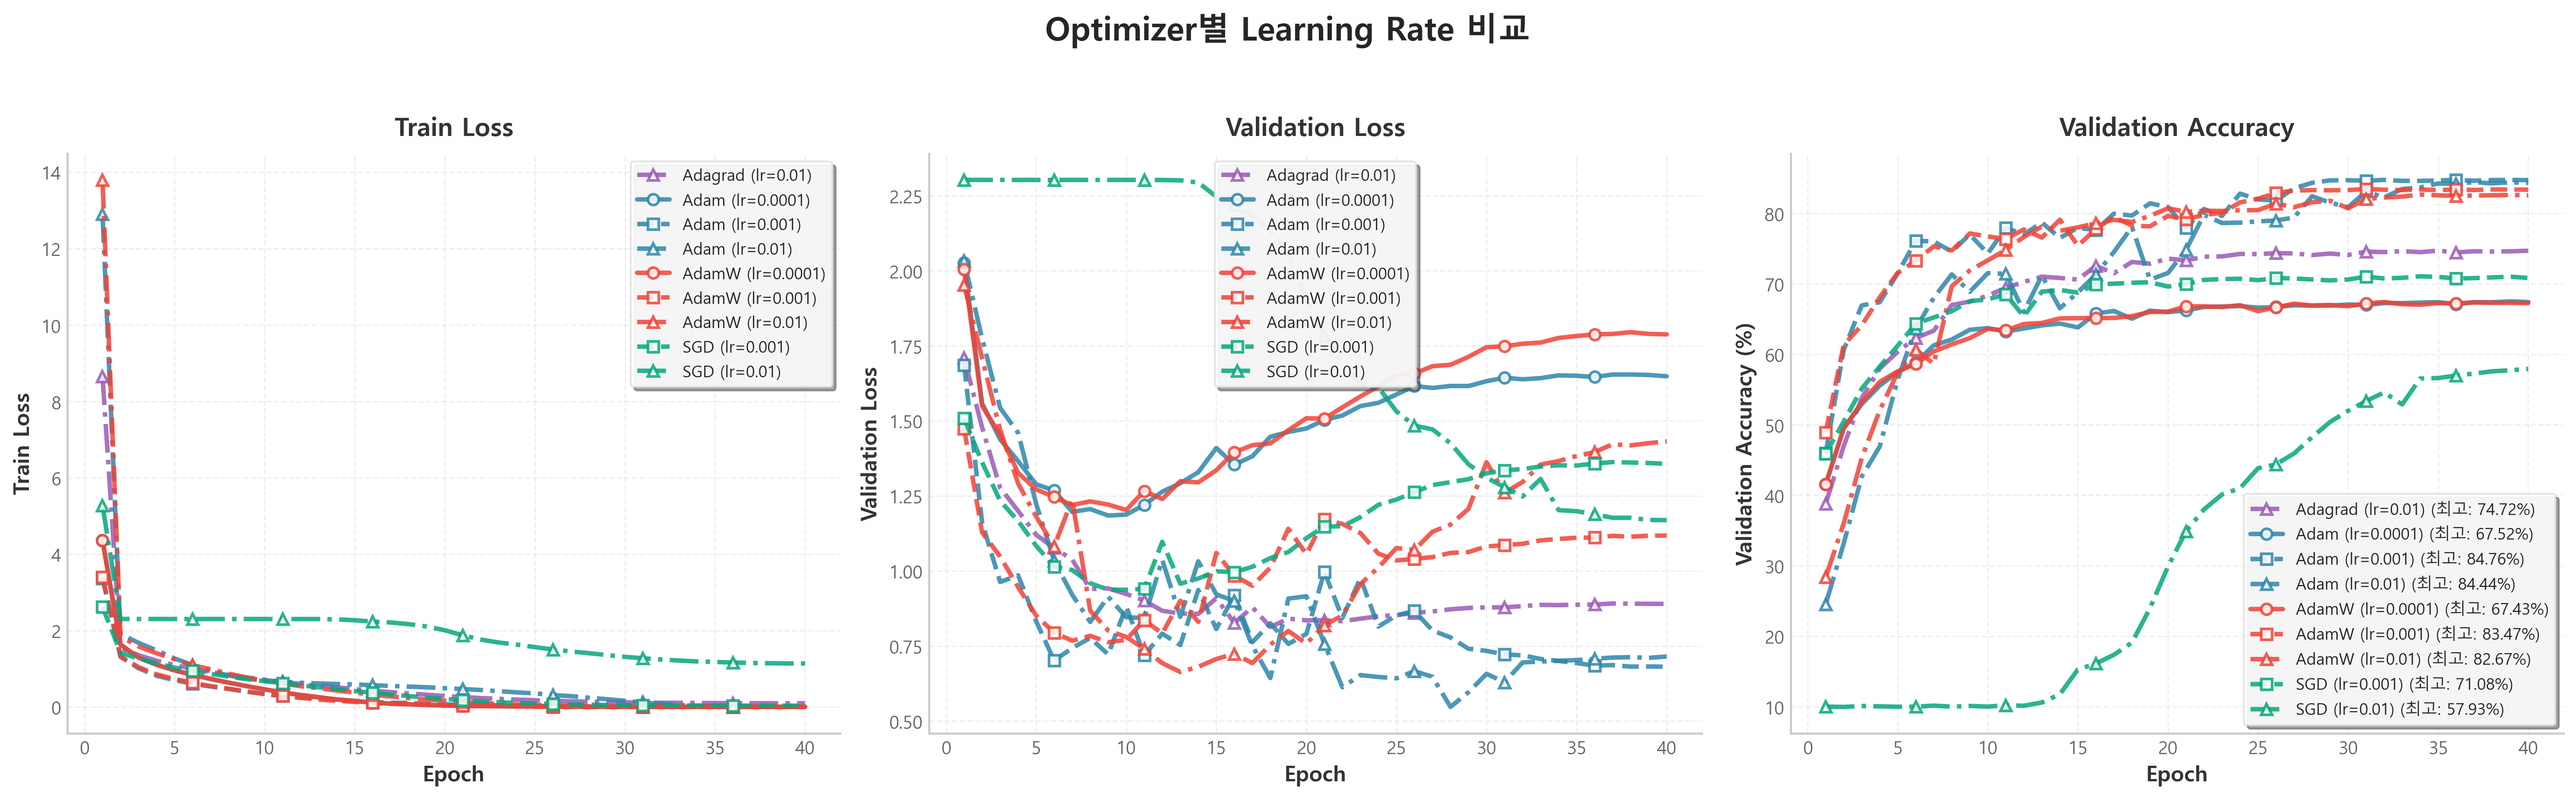
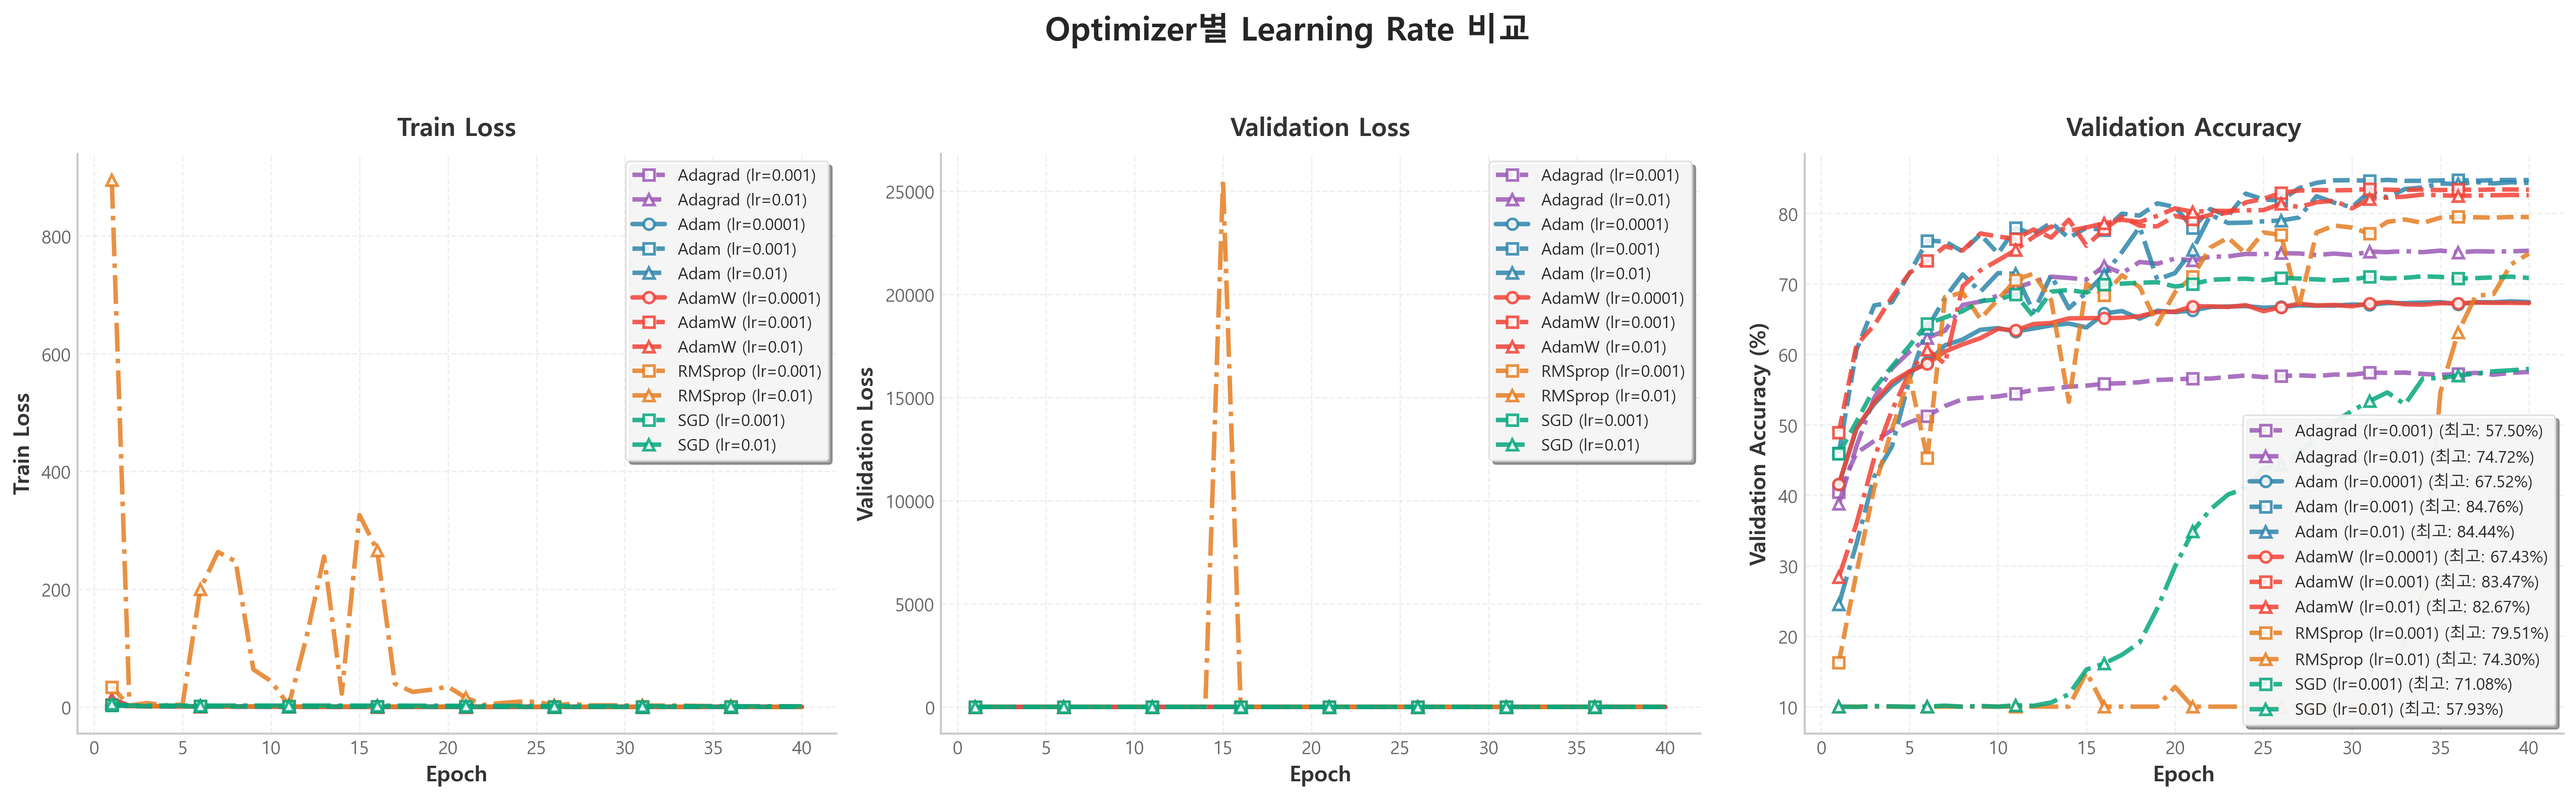
Update README and scripts for learning rate adjustments and optimizer results
- Changed learning rate from 0.001 to 3e-4 in `README.md` and `run_augmentation_comparison_100epoch.sh`.
- Updated optimizer results in `README.md` to reflect completed experiments for Adagrad and RMSprop.
- Modified binary comparison image to reflect the latest optimizer performance.

diff --git a/README.md b/README.md
@@ -122,16 +122,16 @@ Weight Initialization: ✅
 |------|------------|----------------------|------|
 | Adam | 0.01 | 84.44 | ✅ 완료 |
 | Adam | 0.001 | 84.76 | ✅ 완료 |
-| Adam | 0.0001 | 67.52 | ⏳ 코랩 |
+| Adam | 0.0001 | 67.52 | ✅ 완료 |
 | AdamW | 0.01 | 82.67 | ✅ 완료 |
 | AdamW | 0.001 | 83.47 | ✅ 완료 |
 | AdamW | 0.0001 | 67.43 | ✅ 완료 |
 | SGD | 0.001 | 71.08 | ✅ 완료 |
 | SGD | 0.01 | 73.08 | ✅ 완료 |
-| Adagrad | 0.001 | 57.98 | ✅ 완료, 다시 돌려야됨 |
+| Adagrad | 0.001 | 57.5 | ✅ 완료 |
 | Adagrad | 0.01 | 74.72 | ✅ 완료 |
-| RMSprop | 0.001 | 78.39 | ⏳ 대기, 다시 돌려야됨 |
-| RMSprop | 0.01 | - | ⏳ 대기, 다시 돌려야됨 |
+| RMSprop | 0.001 | 79.51 | ✅ 완료 |
+| RMSprop | 0.01 | 74.38 | ✅ 완료 |
 
 ![image](./comparison/optimizer_lr_comparison.png)
 
@@ -144,7 +144,7 @@ uv run main.py --optimizer [optimizer] --epochs 40 --lr [learning_rate] --batch-
 </details>
 
 ## 100 Epoch 기준 실험 결과
-lr: 0.001
+lr: 3e-4
 batch size: 128
 scheduler: CosineAnnealingLR
 optimizer: Adam
